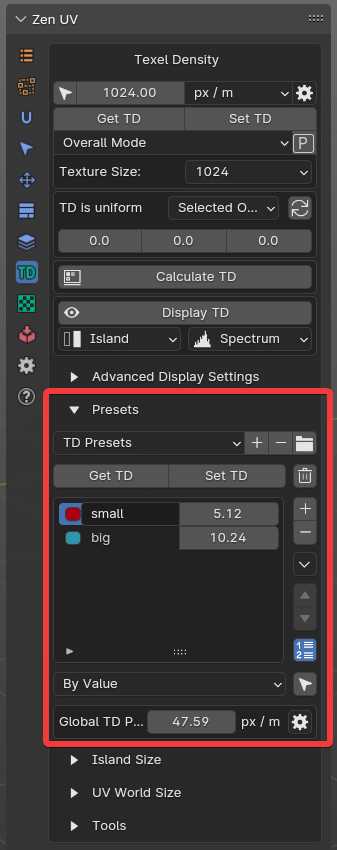
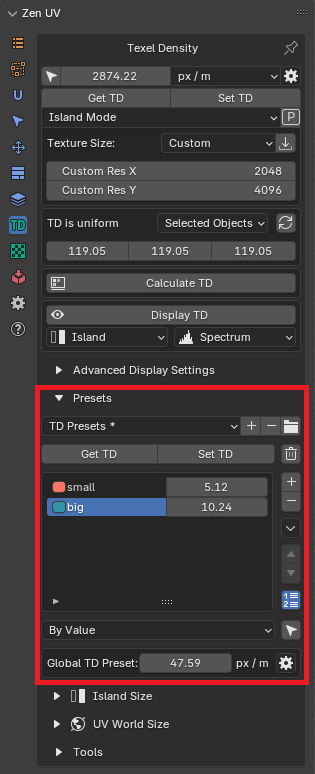
asterix in presets

diff --git a/mkdocs/adv_uv-maps.md b/mkdocs/adv_uv-maps.md
@@ -62,7 +62,7 @@ Advanced Maps system detects synchronization status of all UV Maps in the select
 Active UV Map can be changed either by clicking in the [list](#advanced-uv-maps-list) or by assigning hotkey which will change active UV Map according to its index in the [list](#advanced-uv-maps-list).
 
 !!! Notice
-    It is recommended to [synchronize](#sync-uv-maps-sync-button) all UV Maps in all objects if you are planning to switch advanced UV Maps by hotkeys
+    It is recommended to [synchronize](#sync-uv-maps) all UV Maps in all objects if you are planning to switch advanced UV Maps by hotkeys
 
 | ![](img/screen/adv_uv_map/set_adv_maps_index.gif) |
 |---|

diff --git a/mkdocs/trimsheet_creation.md b/mkdocs/trimsheet_creation.md
@@ -207,6 +207,9 @@ Deletes all trims in the trim sheet
 ### Preset Selector
 A list of available presets. A selection will override the included properties.
 
+!!! Notice
+    If name in preset selector is marked with asterix then it shows name of category and active preset is not selected
+
 ### Add
 New presets can be added based on a predefined set of properties, which will be saved for later reuse. A pop-up opens where you can set a name after which you can select it from the list and in some cases additional settings.
 

diff --git a/mkdocs/texel_density.md b/mkdocs/texel_density.md
@@ -187,6 +187,8 @@ You can Save TD Presets for your projects to and Share TD Presets with team.
 | **Remove** | Remove Preset.|
 | **Open Presets Folder** | Open Presets Folder.|
 
+!!! Notice
+    If name in preset selector is marked with asterix then it shows name of category and active preset is not selected
 
 ### Get TD
 
